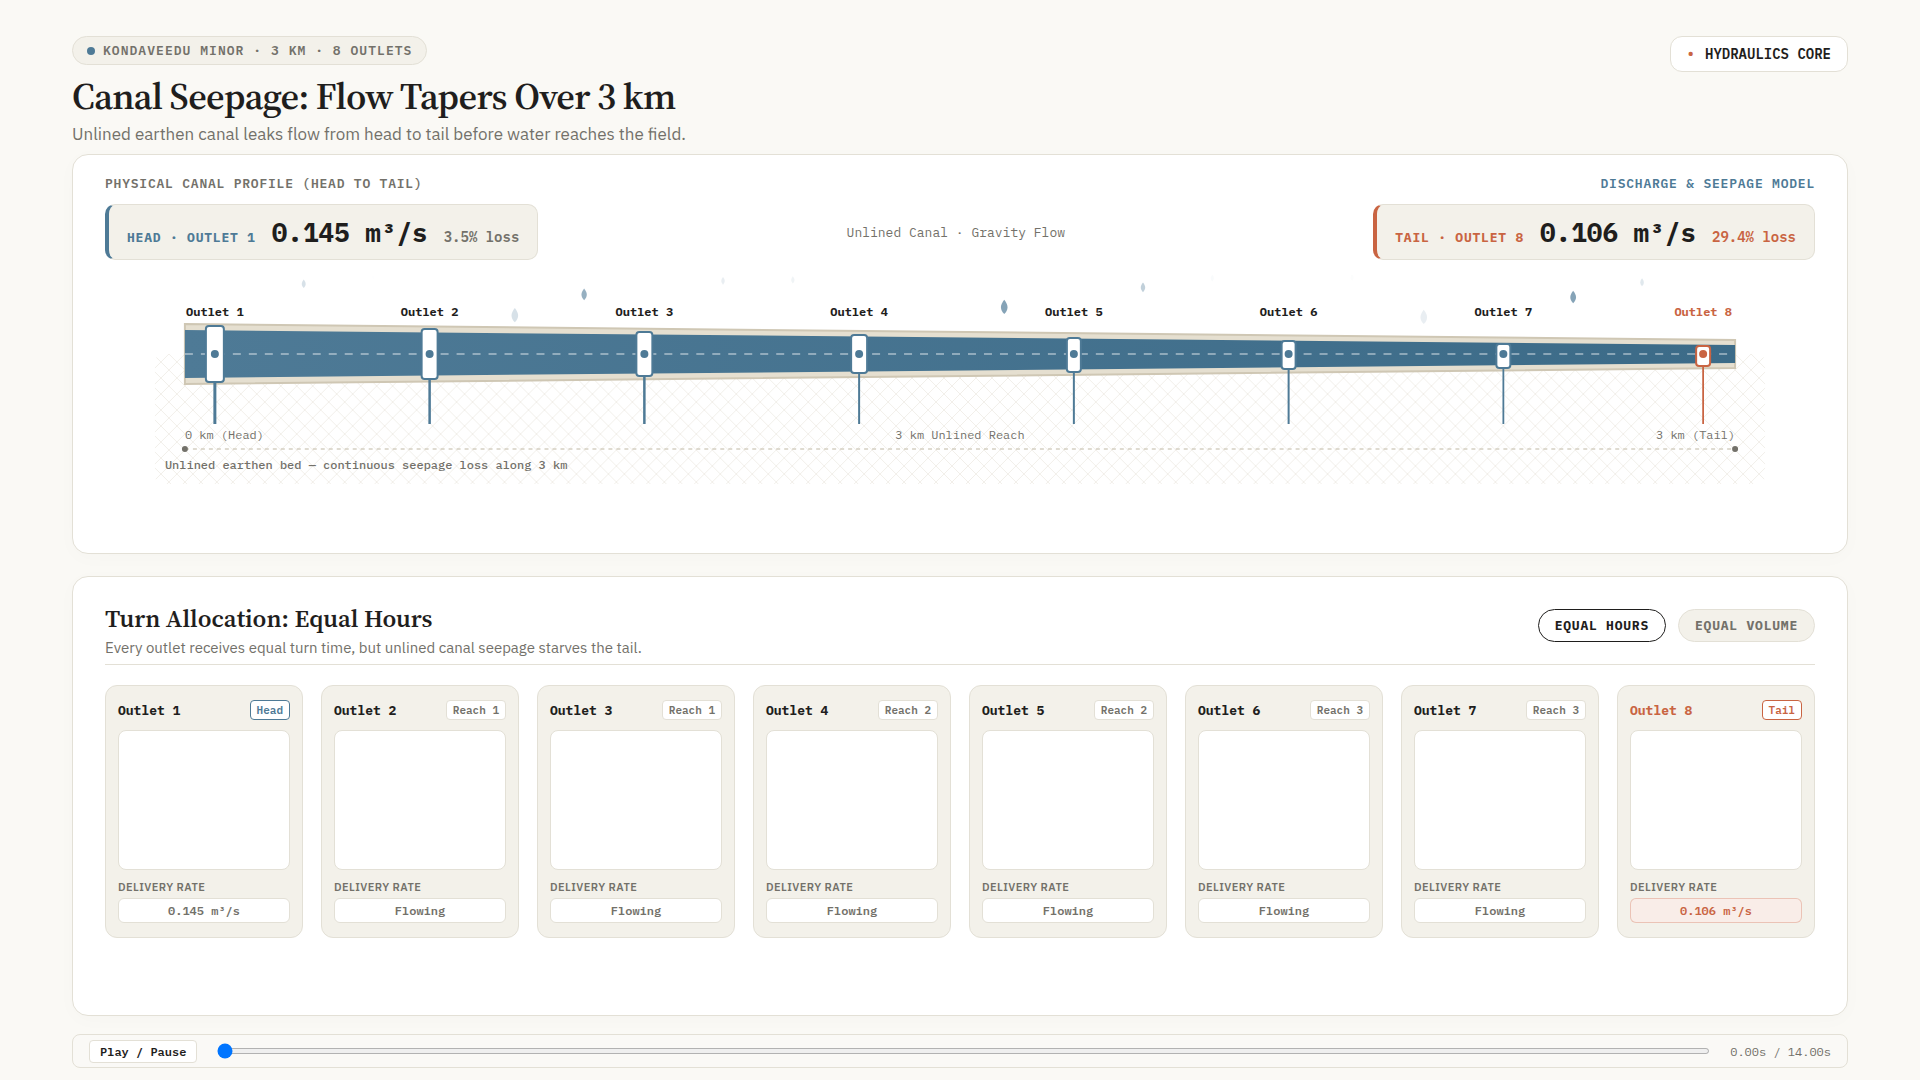
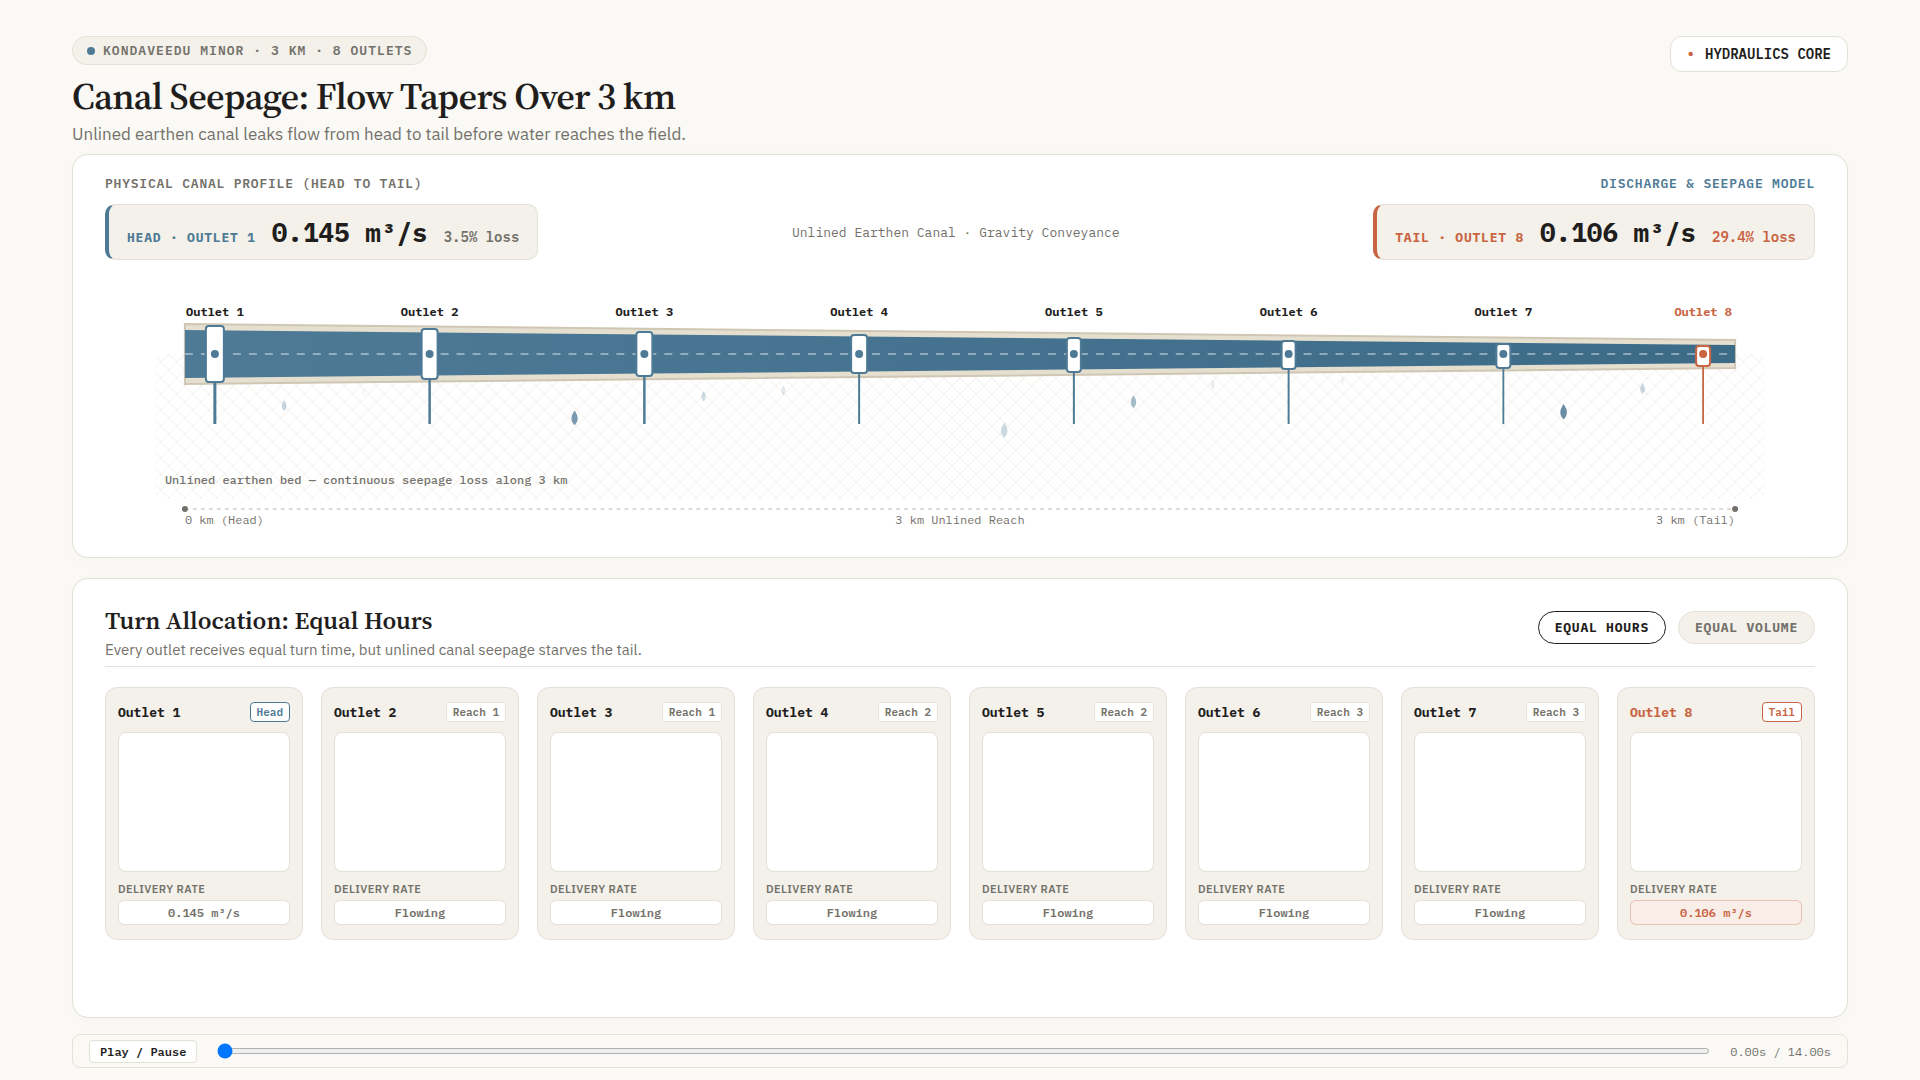
chore(video-motion): checkpoint
Claude-Session: https://claude.ai/code/session_01BaM893f2XiJZGyZWkVAqt2

diff --git a/showcase/video/motion/canal.html b/showcase/video/motion/canal.html
@@ -144,7 +144,7 @@
       top: 154px;
       left: 72px;
       width: 1776px;
-      height: 400px;
+      height: 404px;
       padding: 20px 32px;
     }
 
@@ -229,13 +229,13 @@
 
     .canal-svg-container {
       width: 100%;
-      height: 270px;
+      height: 276px;
       position: relative;
     }
 
     /* Beat 2: Comparison Panel */
     #comparison-panel {
-      top: 576px;
+      top: 578px;
       left: 72px;
       width: 1776px;
       height: 440px;
@@ -515,7 +515,7 @@
         </div>
 
         <div style="font-family: var(--font-mono); font-size: 13px; color: var(--muted);">
-          Unlined Canal &middot; Gravity Flow
+          Unlined Earthen Canal &middot; Gravity Conveyance
         </div>
 
         <!-- Tail Callout -->
@@ -528,7 +528,7 @@
 
       <!-- SVG Canal Flow Schematic -->
       <div class="canal-svg-container">
-        <svg id="canal-svg" viewBox="0 0 1712 270" width="100%" height="270" preserveAspectRatio="none">
+        <svg id="canal-svg" viewBox="0 0 1712 276" width="100%" height="276" preserveAspectRatio="none">
           <defs>
             <linearGradient id="canalGradient" x1="0%" y1="0%" x2="100%" y2="0%">
               <stop offset="0%" stop-color="#4e7a96" />
@@ -540,21 +540,21 @@
             </pattern>
 
             <g id="drop-shape">
-              <path d="M 0 0 C -4 5, -4 9, 0 13 C 4 9, 4 5, 0 0 Z" />
+              <path d="M 0 0 C -4 6, -4 10, 0 14 C 4 10, 4 6, 0 0 Z" />
             </g>
           </defs>
 
           <!-- Soil Substratum Layer (Unlined Canal Bed) -->
-          <rect x="50" y="80" width="1612" height="130" fill="url(#soilPattern)" opacity="0.75" rx="8" />
-          <text x="60" y="195" font-family="IBM Plex Mono" font-size="12" fill="#73716a" font-weight="500">Unlined earthen bed &mdash; continuous seepage loss along 3 km</text>
+          <rect x="50" y="80" width="1612" height="145" fill="url(#soilPattern)" opacity="0.75" rx="8" />
+          <text x="60" y="210" font-family="IBM Plex Mono" font-size="12" fill="#73716a" font-weight="500">Unlined earthen bed &mdash; continuous seepage loss along 3 km</text>
 
           <!-- Ruler / Distance Guideline -->
-          <line x1="80" y1="175" x2="1632" y2="175" stroke="#d5d0c2" stroke-width="1.5" stroke-dasharray="4 4" />
-          <circle cx="80" cy="175" r="3" fill="#73716a" />
-          <circle cx="1632" cy="175" r="3" fill="#73716a" />
-          <text x="80" y="165" font-family="IBM Plex Mono" font-size="12" fill="#73716a">0 km (Head)</text>
-          <text x="856" y="165" text-anchor="middle" font-family="IBM Plex Mono" font-size="12" fill="#73716a">3 km Unlined Reach</text>
-          <text x="1632" y="165" text-anchor="end" font-family="IBM Plex Mono" font-size="12" fill="#73716a">3 km (Tail)</text>
+          <line x1="80" y1="235" x2="1632" y2="235" stroke="#d5d0c2" stroke-width="1.5" stroke-dasharray="4 4" />
+          <circle cx="80" cy="235" r="3" fill="#73716a" />
+          <circle cx="1632" cy="235" r="3" fill="#73716a" />
+          <text x="80" y="250" font-family="IBM Plex Mono" font-size="12" fill="#73716a">0 km (Head)</text>
+          <text x="856" y="250" text-anchor="middle" font-family="IBM Plex Mono" font-size="12" fill="#73716a">3 km Unlined Reach</text>
+          <text x="1632" y="250" text-anchor="end" font-family="IBM Plex Mono" font-size="12" fill="#73716a">3 km (Tail)</text>
 
           <!-- Canal Banks Outer Outline (Earthen Profile) -->
           <path id="canal-banks" d="
@@ -645,22 +645,23 @@
             </g>
           </g>
 
-          <!-- Seepage Droplets Leaking Out Along Canal Bed -->
+          <!-- Seepage Droplets Leaking Out Along Canal Bed into Soil -->
+          <!-- Using wrapped slot groups so GSAP animates inner drop relative to (x, y) -->
           <g id="seepage-droplets">
-            <g class="seepage-drop" id="drop-1" transform="translate(200, 110)"><use href="#drop-shape"/></g>
-            <g class="seepage-drop" id="drop-2" transform="translate(270, 108)"><use href="#drop-shape"/></g>
-            <g class="seepage-drop" id="drop-3" transform="translate(410, 106)"><use href="#drop-shape"/></g>
-            <g class="seepage-drop" id="drop-4" transform="translate(480, 104)"><use href="#drop-shape"/></g>
-            <g class="seepage-drop" id="drop-5" transform="translate(620, 102)"><use href="#drop-shape"/></g>
-            <g class="seepage-drop" id="drop-6" transform="translate(690, 100)"><use href="#drop-shape"/></g>
-            <g class="seepage-drop" id="drop-7" transform="translate(830, 98)"><use href="#drop-shape"/></g>
-            <g class="seepage-drop" id="drop-8" transform="translate(900, 96)"><use href="#drop-shape"/></g>
-            <g class="seepage-drop" id="drop-9" transform="translate(1040, 94)"><use href="#drop-shape"/></g>
-            <g class="seepage-drop" id="drop-10" transform="translate(1110, 92)"><use href="#drop-shape"/></g>
-            <g class="seepage-drop" id="drop-11" transform="translate(1250, 91)"><use href="#drop-shape"/></g>
-            <g class="seepage-drop" id="drop-12" transform="translate(1320, 90)"><use href="#drop-shape"/></g>
-            <g class="seepage-drop" id="drop-13" transform="translate(1470, 89)"><use href="#drop-shape"/></g>
-            <g class="seepage-drop" id="drop-14" transform="translate(1540, 89)"><use href="#drop-shape"/></g>
+            <g class="drop-slot" transform="translate(180, 114)"><g class="seepage-drop" id="drop-1"><use href="#drop-shape"/></g></g>
+            <g class="drop-slot" transform="translate(260, 112)"><g class="seepage-drop" id="drop-2"><use href="#drop-shape"/></g></g>
+            <g class="drop-slot" transform="translate(380, 110)"><g class="seepage-drop" id="drop-3"><use href="#drop-shape"/></g></g>
+            <g class="drop-slot" transform="translate(470, 108)"><g class="seepage-drop" id="drop-4"><use href="#drop-shape"/></g></g>
+            <g class="drop-slot" transform="translate(600, 107)"><g class="seepage-drop" id="drop-5"><use href="#drop-shape"/></g></g>
+            <g class="drop-slot" transform="translate(680, 105)"><g class="seepage-drop" id="drop-6"><use href="#drop-shape"/></g></g>
+            <g class="drop-slot" transform="translate(810, 104)"><g class="seepage-drop" id="drop-7"><use href="#drop-shape"/></g></g>
+            <g class="drop-slot" transform="translate(900, 103)"><g class="seepage-drop" id="drop-8"><use href="#drop-shape"/></g></g>
+            <g class="drop-slot" transform="translate(1030, 102)"><g class="seepage-drop" id="drop-9"><use href="#drop-shape"/></g></g>
+            <g class="drop-slot" transform="translate(1110, 101)"><g class="seepage-drop" id="drop-10"><use href="#drop-shape"/></g></g>
+            <g class="drop-slot" transform="translate(1240, 100)"><g class="seepage-drop" id="drop-11"><use href="#drop-shape"/></g></g>
+            <g class="drop-slot" transform="translate(1330, 99)"><g class="seepage-drop" id="drop-12"><use href="#drop-shape"/></g></g>
+            <g class="drop-slot" transform="translate(1460, 98)"><g class="seepage-drop" id="drop-13"><use href="#drop-shape"/></g></g>
+            <g class="drop-slot" transform="translate(1540, 97)"><g class="seepage-drop" id="drop-14"><use href="#drop-shape"/></g></g>
           </g>
         </svg>
       </div>
@@ -867,36 +868,36 @@
     // 2.4s - 3.2s: Head Metric Callout enters (0.145 m3/s, 3.5% loss)
     tl.fromTo("#head-callout",
       { opacity: 0, scale: 0.95 },
-      { opacity: 1, scale: 1, duration: 0.6, ease: "power2.out" },
+      { opacity: 1, scale: 1, duration: 0.6, ease: "power2.out" }, 
       2.4
     );
 
     // 3.2s - 4.0s: Tail Metric Callout enters (0.106 m3/s, 29.4% loss)
     tl.fromTo("#tail-callout",
       { opacity: 0, scale: 0.95 },
-      { opacity: 1, scale: 1, duration: 0.6, ease: "power2.out" },
+      { opacity: 1, scale: 1, duration: 0.6, ease: "power2.out" }, 
       3.2
     );
 
-    // 3.8s - 7.2s: Seepage droplets leaking out through unlined bed (repeating deterministically)
+    // 3.8s - 7.2s: Seepage droplets leaking out into soil stratum beneath unlined bed
     const drops = document.querySelectorAll(".seepage-drop");
     drops.forEach((drop, index) => {
-      const startTime = 3.8 + (index % 5) * 0.35 + Math.floor(index / 5) * 0.15;
-      // Cycle 1
+      const startTime = 3.6 + (index % 5) * 0.35 + Math.floor(index / 5) * 0.15;
+      // Cycle 1: leak down from bed into soil
       tl.fromTo(drop,
-        { opacity: 0, y: 0, scale: 0.5 },
-        { opacity: 0.9, y: 22, scale: 1.1, duration: 0.8, ease: "power1.in" },
+        { opacity: 0, y: 0, scale: 0.6 },
+        { opacity: 0.85, y: 32, scale: 1.1, duration: 0.9, ease: "power1.in" },
         startTime
       );
-      tl.to(drop, { opacity: 0, y: 38, duration: 0.4, ease: "power1.out" }, startTime + 0.8);
+      tl.to(drop, { opacity: 0, y: 52, duration: 0.35, ease: "power1.out" }, startTime + 0.9);
 
-      // Cycle 2
+      // Cycle 2: second droplet
       tl.fromTo(drop,
-        { opacity: 0, y: 0, scale: 0.5 },
-        { opacity: 0.9, y: 22, scale: 1.1, duration: 0.8, ease: "power1.in" },
-        startTime + 1.3
+        { opacity: 0, y: 0, scale: 0.6 },
+        { opacity: 0.85, y: 32, scale: 1.1, duration: 0.9, ease: "power1.in" },
+        startTime + 1.35
       );
-      tl.to(drop, { opacity: 0, y: 38, duration: 0.4, ease: "power1.out" }, startTime + 2.1);
+      tl.to(drop, { opacity: 0, y: 52, duration: 0.35, ease: "power1.out" }, startTime + 2.25);
     });
 
     // Beat 2: Comparison between Equal Hours and Equal Volume (7.5s - 14.0s)
@@ -909,7 +910,7 @@
     turnBars.forEach((barId, i) => {
       tl.fromTo(barId,
         { height: 0 },
-        { height: 50, duration: 0.6, ease: "power2.out" },
+        { height: 48, duration: 0.6, ease: "power2.out" },
         7.5 + (i * 0.08)
       );
     });
@@ -938,8 +939,8 @@
 
     // 10.5s - 12.8s: Equal Volume transformation
     // Turn durations adapt: Outlet 1 remains base turn, Outlets 2 to 8 lengthen progressively
-    // Outlet 8 reaches 120px (longer tail bar)
-    const volumeHeights = [45, 50, 56, 64, 74, 86, 102, 122];
+    // Outlet 8 reaches 125px (tail turn bar significantly longer)
+    const volumeHeights = [44, 49, 55, 63, 73, 86, 102, 125];
     turnBars.forEach((barId, i) => {
       tl.to(barId, {
         height: volumeHeights[i],
